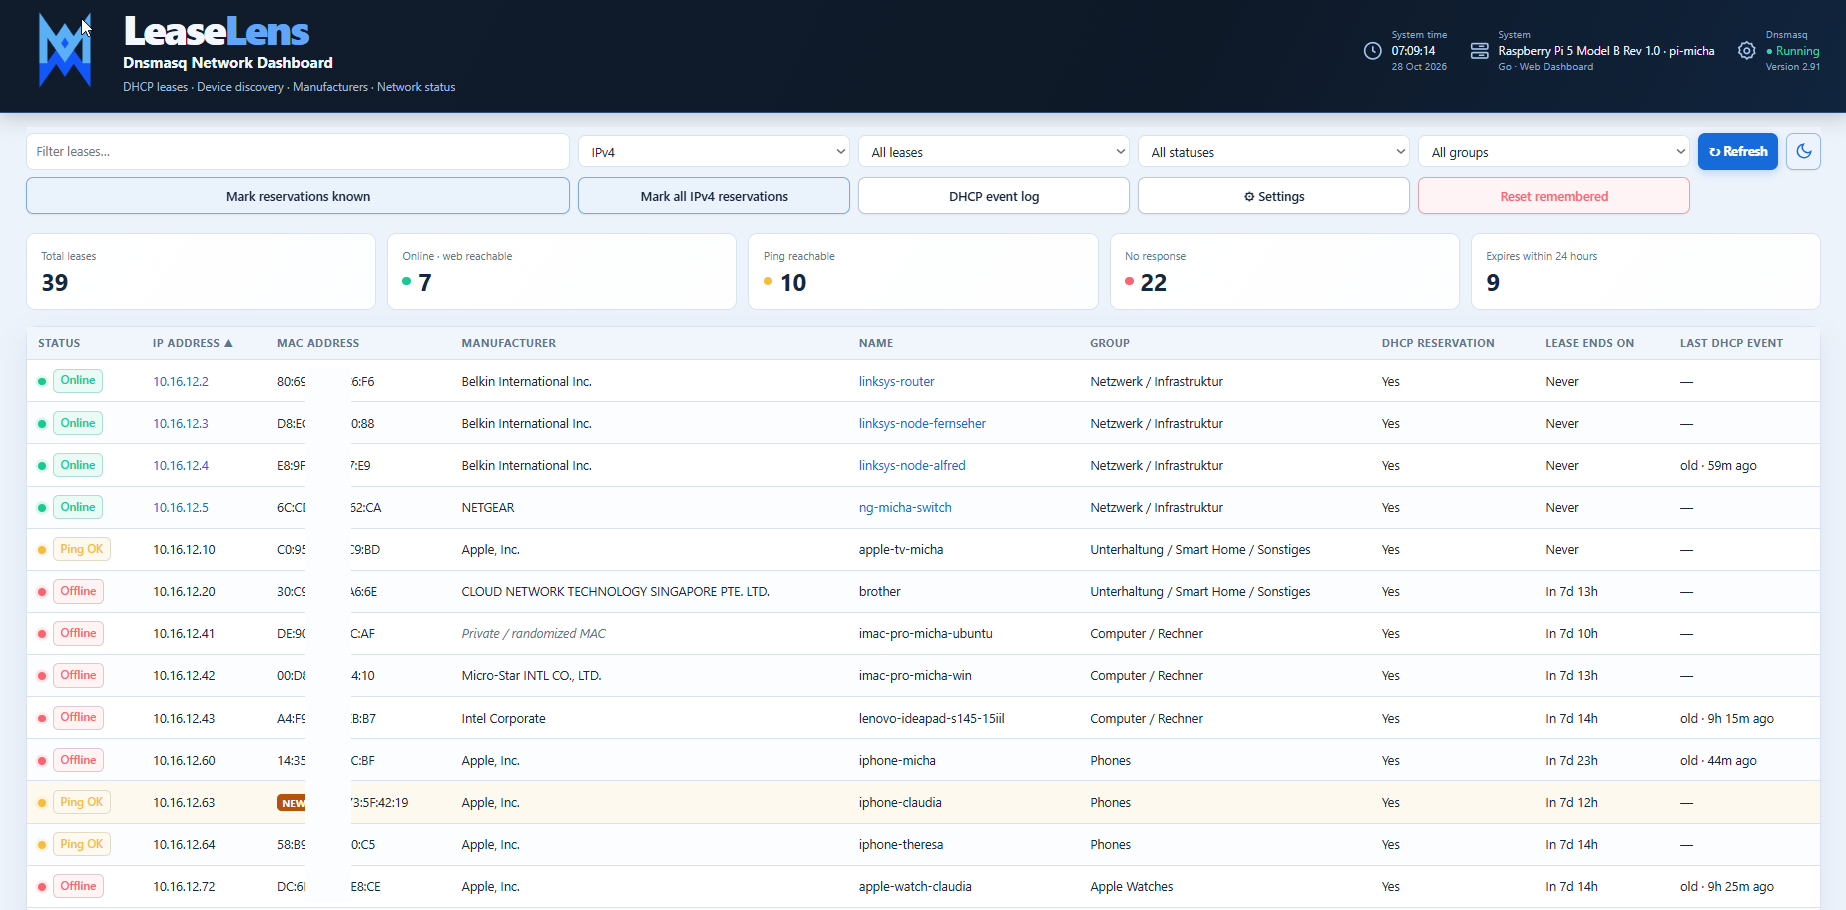
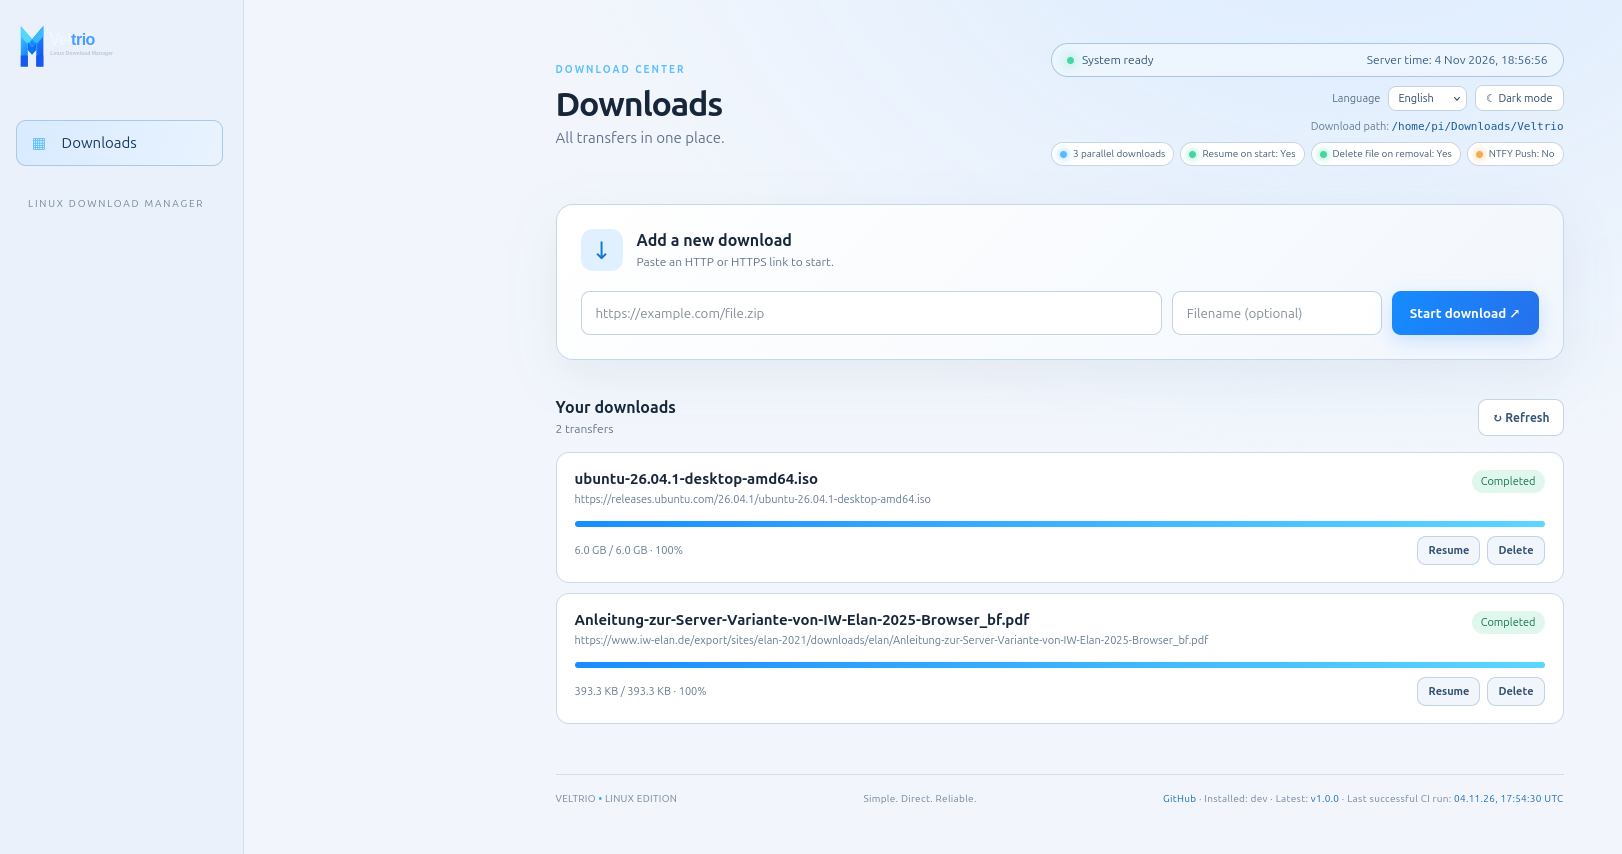
Project Improvements

diff --git a/README.md b/README.md
@@ -2,6 +2,8 @@
 
 Veltrio is a lightweight, self-hosted download manager for Linux, built with Go and a responsive web interface.
 
+![Screenshot](https://raw.githubusercontent.com/anonymous-writer/Veltrio/main/docs/screenshot1.png)
+
 ## Features
 
 - HTTP and HTTPS downloads
